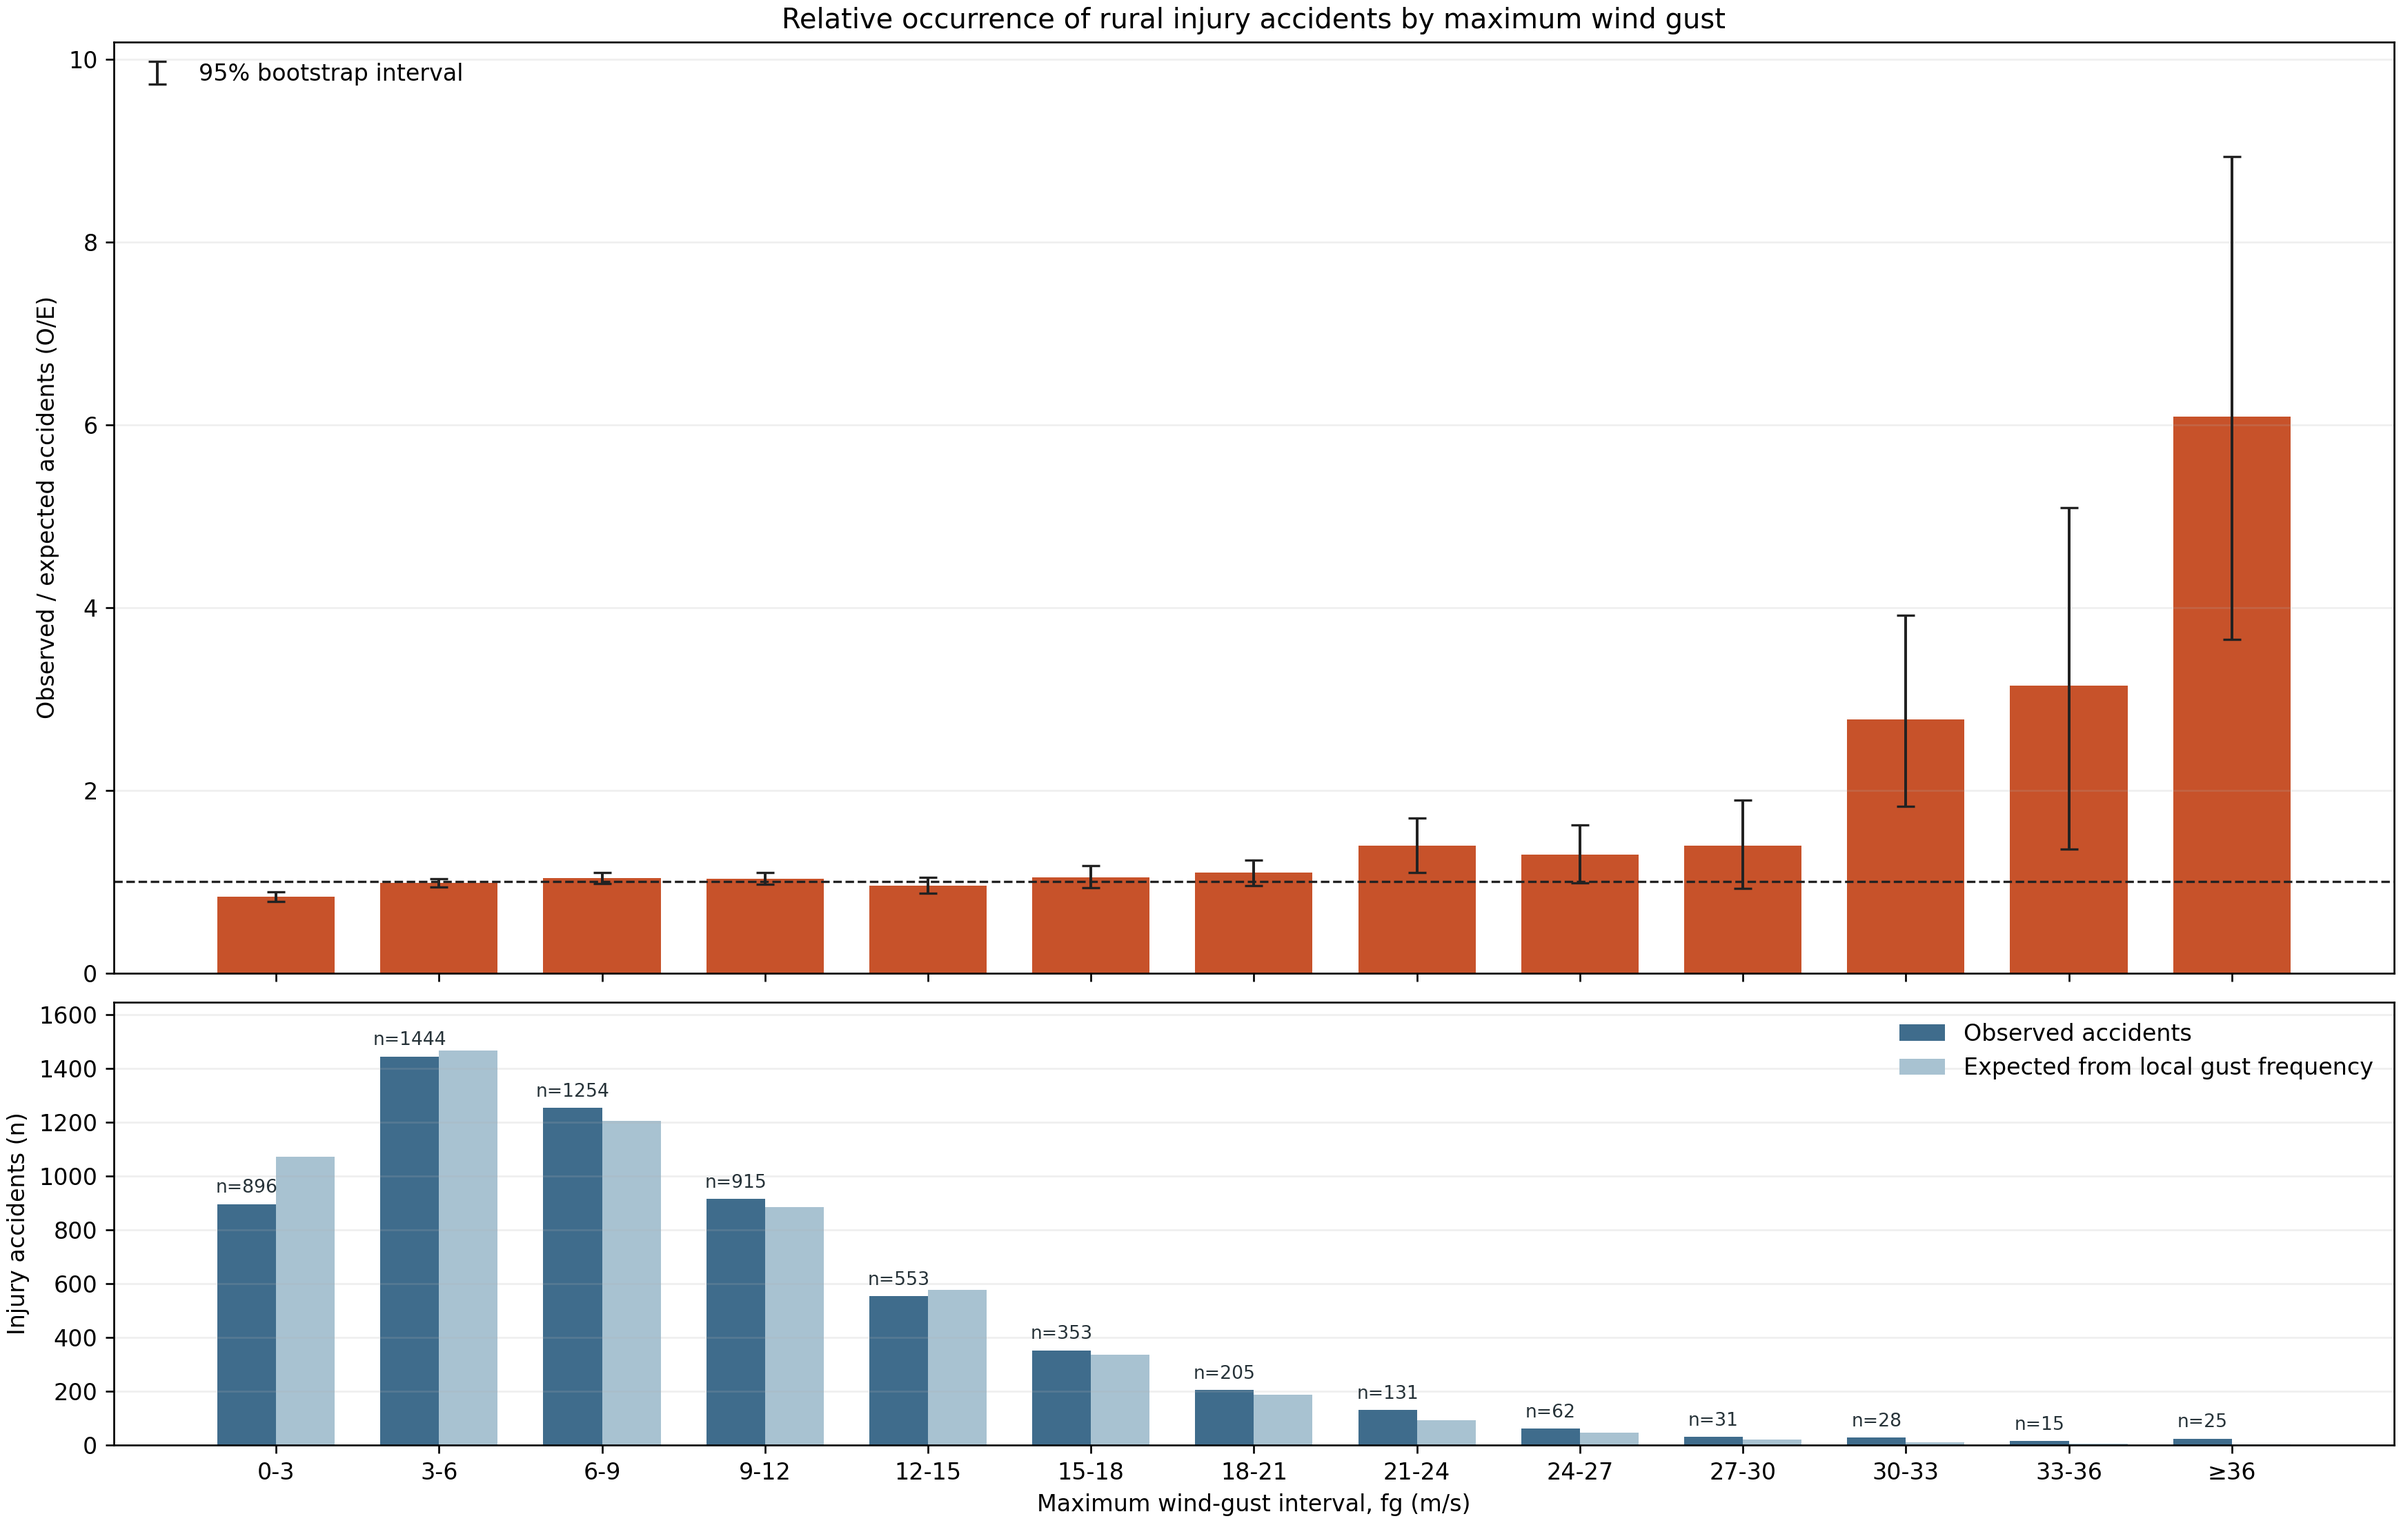
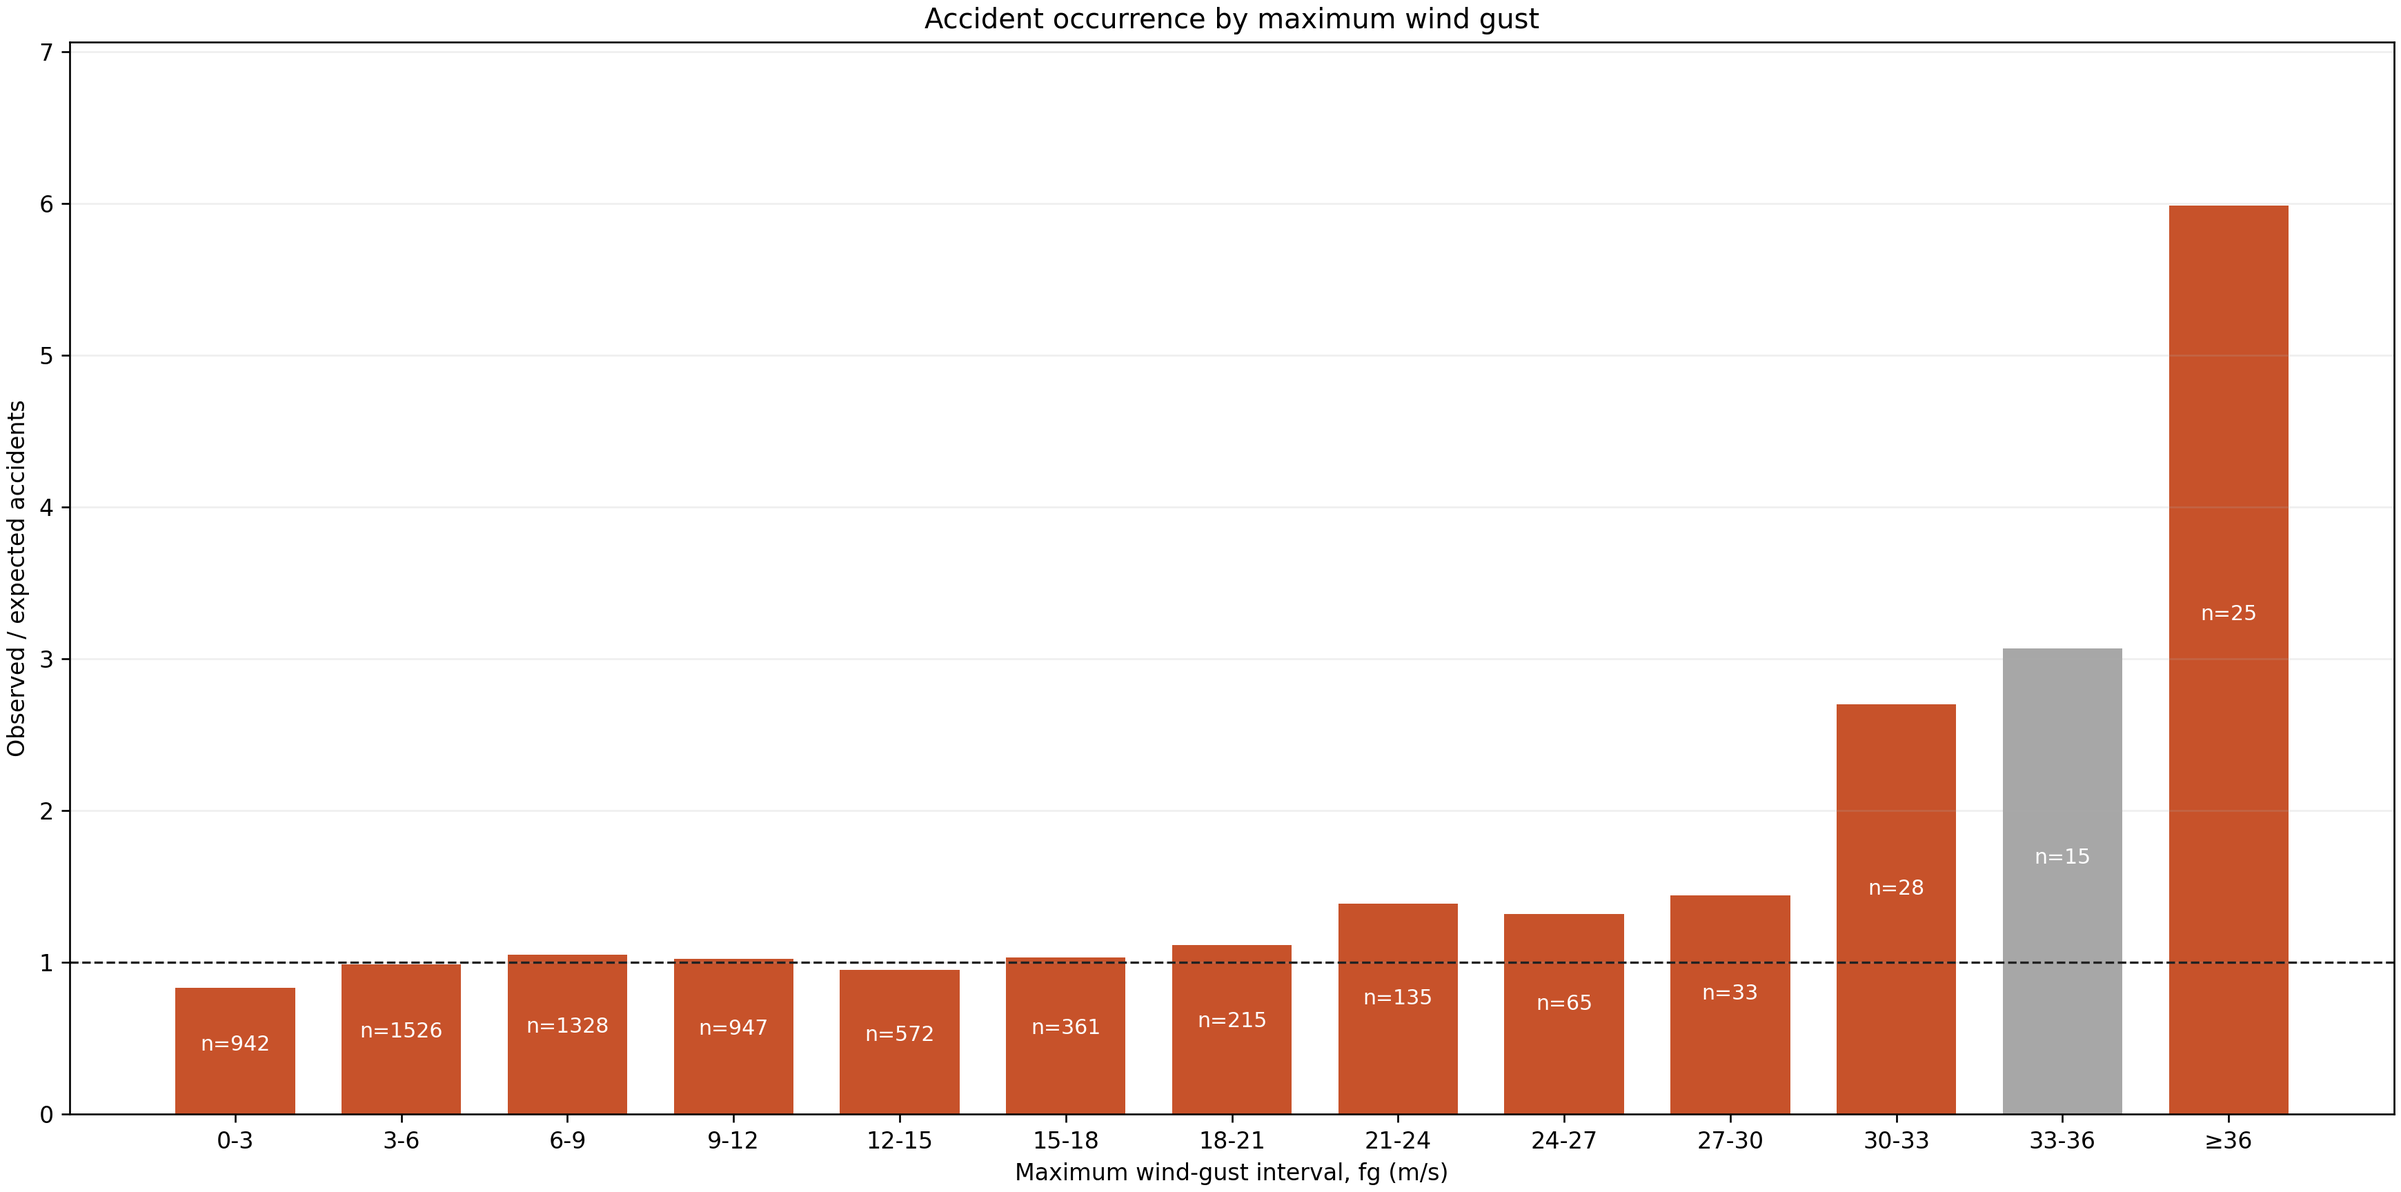
Regenerate retained wind analysis outputs

diff --git a/reports/main/tables/final_analysis_validation.md b/reports/main/tables/final_analysis_validation.md
@@ -4,9 +4,9 @@ All checks below passed against the current local canonical files.
 
 ## Fixed primary analysis
 
-- Population: 6,120 rural injury accidents, 2007--2024.
-- Primary weather match: 5,912 accidents within 20 km and 5 minutes.
-- Primary exposure: maximum wind gust (`fg`) in 3 m/s intervals.
+- Population: 6,414 rural injury accidents, 2007--2025.
+- Primary weather match: 6,192 accidents within 20 km and 5 minutes.
+- Primary exposure: mean wind speed (`f`) in 5 m/s intervals.
 - Standardisation: weather station, calendar year, and season.
 - Uncertainty: 5,000 weather-station-clustered bootstrap samples.
 
@@ -14,7 +14,7 @@ All checks below passed against the current local canonical files.
 
 | Check | Result |
 |---|---:|
-| Unique accident identifiers | 6,120 / 6,120 |
+| Unique accident identifiers | 6,414 / 6,414 |
 | Clean weather observations scanned | 211,497,897 |
 | `f` range | 0.000 to 44.990 m/s |
 | `fg` range | 0.000 to 64.990 m/s |
@@ -24,25 +24,25 @@ All checks below passed against the current local canonical files.
 
 ## Primary O/E result
 
-| Gust interval | Observed | Expected | O/E | 95% interval |
+| Mean wind-speed interval | Observed | Expected | O/E | 95% interval |
 |---|---:|---:|---:|---:|
-| >=36 m/s | 25 | 4.1 | 6.09 | 3.65--8.94 |
+| >=25 m/s | 16 | 5.9 | 2.70 | 0.97--5.49 |
 
-Observed counts sum to 5,912. Expected counts are rounded to one decimal in this table and therefore sum to 5,912.1.
+Observed counts sum to 6,192. Expected counts are rounded to one decimal in this table.
 
-## Distance sensitivity for fg >=36 m/s
+## Distance sensitivity for fg >=36 m/s (secondary analysis)
 
 | Maximum distance | Matched accidents | O/E | 95% interval |
 |---|---:|---:|---:|
-| 10 km | 4,622 | 7.27 | 4.38--10.63 |
-| 20 km | 5,912 | 6.09 | 3.65--8.94 |
-| 30 km | 6,109 | 5.99 | 3.54--8.87 |
+| 10 km | 4,858 | 7.14 | 4.35--10.43 |
+| 20 km | 6,192 | 5.99 | 3.62--8.80 |
+| 30 km | 6,399 | 5.89 | 3.54--8.68 |
 
 ## Scope decision
 
-Single-vehicle, run-off-road, rollover, fall, or other accidents account for 4,184 of 6,120 study accidents (68.4%).
-This supports the physical relevance of wind gusts. A separate O/E curve for this group would be an exploratory appendix analysis, not a replacement for the fixed all-injury primary result.
+Single-vehicle, run-off-road, rollover, fall, or other accidents account for 4,348 of 6,414 study accidents (67.8%).
+This supports the relevance of wind conditions to vehicle control. A separate O/E curve for this group would be an exploratory appendix analysis, not a replacement for the fixed all-injury primary result.
 
 ## Decision
 
-The primary analysis is internally consistent and ready to freeze: `fg`, a 20 km weather-station limit, a 5-minute time limit, and wind-frequency-adjusted O/E as the main result. Daily traffic remains a supporting analysis.
+The primary analysis is internally consistent and ready to freeze: `f`, a 20 km weather-station limit, a 5-minute time limit, and wind-frequency-adjusted O/E as the main result. Gust and daily traffic remain secondary analyses.

diff --git a/reports/README.md b/reports/README.md
@@ -1,13 +1,26 @@
 # Reports
 
-`main/` contains the small tables and figures cited in the thesis.
+`main/` contains the small tables and figures cited in the thesis. The primary
+result is mean-wind O/E; gust and traffic figures are supporting results.
 
-- `figures/gust_oe.png`: primary wind-gust O/E result.
-- `tables/gust_oe.csv`: values behind the primary figure.
+- `figures/mean_wind_oe.png`: primary mean-wind O/E result.
+- `tables/mean_wind_oe.csv`: values behind the primary figure.
+- `figures/gust_oe.png`: supporting maximum-gust O/E result.
+- `figures/gust_factor_distribution.png`: descriptive distribution of `fg/f`
+  in clean weather observations.
+- `figures/mean_wind_3m_oe.png`: narrower-bin mean-wind version retained for
+  the appendix, not a second main result.
+- `figures/mean_wind_by_season_oe.png` and
+  `figures/mean_wind_by_vehicle_group_oe.png`: descriptive mean-wind subgroup
+  figures; corresponding gust figures use the `gust_` prefix.
 - `tables/final_analysis_validation.md`: fixed analysis checks.
 - `figures/*_flow.png`: simple accident, weather, and traffic data-flow figures.
 - `figures/daily_traffic_by_wind.png`: supporting daily-traffic diagnostic.
-- `figures/traffic_sensitivity.png`: restricted annual-traffic sensitivity.
+- `figures/traffic_adjusted_oe.png`: restricted annual-traffic comparison.
 
 `thesis/` contains the current English thesis draft and PDF. Files outside
 these folders are local working material and are not part of the main report.
+
+`working/` contains figures and tables retained for internal checking but not
+cited in the main thesis. `docs/supervisor_review_checklist.md` maps the
+advisor's requested checks to the relevant data, code, figures and thesis text.
